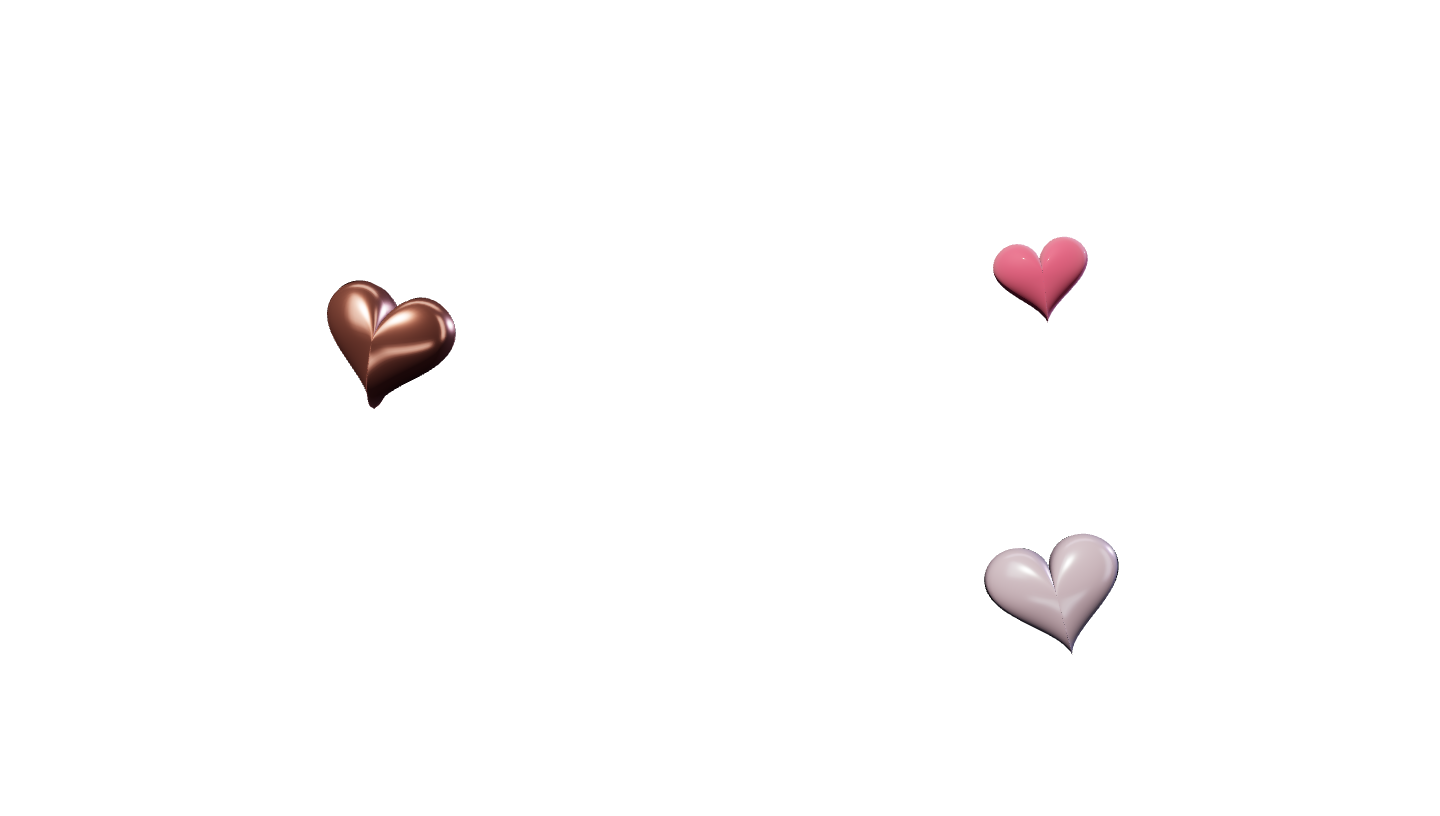
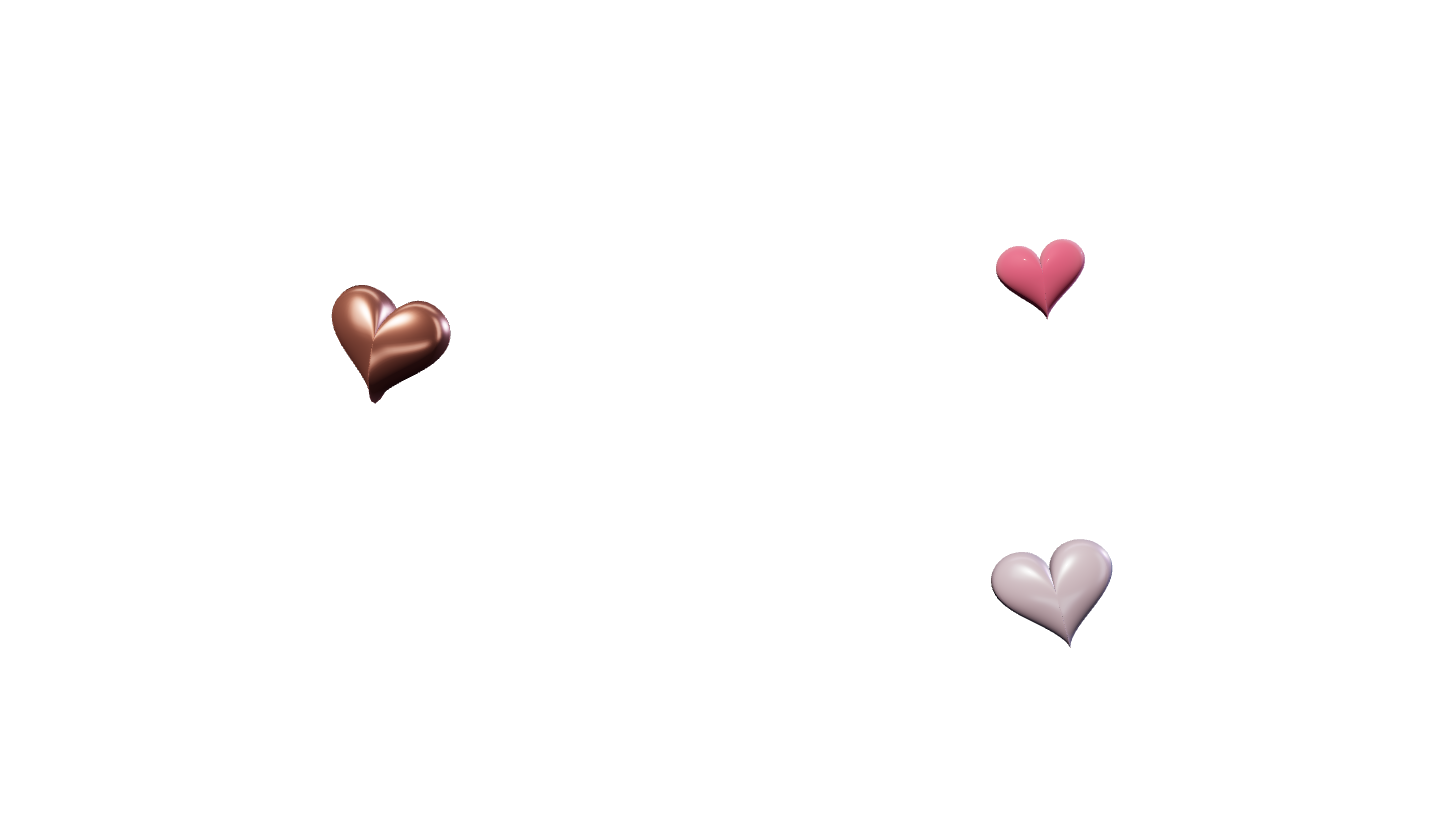
Refine envelope paper and make heart feedback clearer

diff --git a/src/preview/preview.css b/src/preview/preview.css
@@ -59,10 +59,10 @@
 
 .rd-hero-decorations{display:none}
 @media(min-width:1024px) and (pointer:fine){.rd-hero-decorations{display:block;position:absolute;inset:0;z-index:1;pointer-events:none;overflow:hidden}.rd-star{position:absolute;background:linear-gradient(135deg,#fff2df,#d8aacd);clip-path:polygon(50% 0,61% 39%,100% 50%,61% 61%,50% 100%,39% 61%,0 50%,39% 39%)}.rd-star-twinkle{animation:rd-twinkle 8s ease-in-out infinite}.rd-tiny-heart{position:absolute;display:block;height:auto;opacity:.8}.rd-spark-star{width:12px;height:12px}.rd-spark-heart{position:absolute;width:19px;height:19px;background-size:contain;background-repeat:no-repeat}.rd-game-start{min-width:190px;text-align:left}.rd-nav nav>a{min-height:44px;display:inline-flex;align-items:center}.rd-still .rd-star{animation:none}}
-@keyframes rd-twinkle{0%,100%{opacity:.25}50%{opacity:.8}}
+@keyframes rd-twinkle{0%,100%{opacity:.42}50%{opacity:.95}}
 @media(prefers-reduced-motion:reduce){.rd-star{animation:none!important}}
 
-.rd-cosmic-veil{position:absolute;inset:0;width:100%;height:100%;opacity:.32}.rd-meteor{position:absolute;width:90px;height:2px;background:linear-gradient(90deg,#fff0da,transparent);opacity:0;transform-origin:0 50%;border-radius:50%}.rd-gallery-fallback{display:block;width:100%;height:100%;object-fit:contain}
+.rd-cosmic-veil{position:absolute;inset:0;width:100%;height:100%;opacity:.55}.rd-meteor{position:absolute;width:90px;height:2px;background:linear-gradient(90deg,#fff0da,transparent);opacity:0;transform-origin:0 50%;border-radius:50%}.rd-gallery-fallback{display:block;width:100%;height:100%;object-fit:contain}
 
 .rd-hero[data-decor-visible="false"] .rd-star-twinkle{animation-play-state:paused}
 .rd-decor-far,.rd-decor-near{position:absolute;inset:0;pointer-events:none}.rd-journey{position:relative}.rd-journey-thread{display:none}
@@ -71,3 +71,13 @@
 @media(min-width:1024px) and (pointer:fine){.rd-hero-stage{z-index:auto}.rd-heart-fallback,.rd-raster-curve,.rd-raster-heart{z-index:1}.rd-raster-heart:nth-child(3){z-index:3}.rd-studio-hearts canvas{z-index:3}.rd-couple{z-index:2}.rd-envelope-object{z-index:2}.rd-rose-gift{display:contents}.rd-rose-gift img{position:absolute;right:var(--rose-right,4%);bottom:26px;width:190px;height:auto;transform-origin:50% 25%}.rd-rose-gift .rd-rose-stem{z-index:1;clip-path:inset(52% 0 0)}.rd-rose-gift .rd-rose-bloom{z-index:8;clip-path:inset(0 0 48%)}.rd-rose-gift figcaption{position:absolute;right:var(--rose-right,4%);bottom:4px;width:190px;margin:0;z-index:8}.rd-paper{clip-path:polygon(0% 4%,12.5% 2.3%,25% 1%,37.5% .25%,50% 0%,62.5% .25%,75% 1%,87.5% 2.3%,100% 4%,100% 96%,87.5% 97.7%,75% 99%,62.5% 99.75%,50% 100%,37.5% 99.75%,25% 99%,12.5% 97.7%,0% 96%);transition:transform 1.1s cubic-bezier(.3,.6,.18,1),clip-path .9s cubic-bezier(.23,1,.32,1)}.is-open .rd-paper{clip-path:polygon(0% 0%,12.5% 0%,25% 0%,37.5% 0%,50% 0%,62.5% 0%,75% 0%,87.5% 0%,100% 0%,100% 100%,87.5% 100%,75% 100%,62.5% 100%,50% 100%,37.5% 100%,25% 100%,12.5% 100%,0% 100%)}}
 @media(min-width:1024px) and (max-width:1100px) and (pointer:fine){.rd-rose-gift img,.rd-rose-gift figcaption{width:155px}}
 .rd-raster-scene{z-index:1}.rd-raster-front{z-index:3!important;opacity:0;transition:opacity .35s}.rd-raster-front[data-ready=true]{opacity:1}
+.rd-envelope-back{border-color:#b38b72;background:linear-gradient(145deg,#9b725b,#654a4c 46%,#352630);box-shadow:0 3px 0 #8e6754,0 5px 0 #39272d,14px 22px 28px #0007,inset 0 1px 1px #ffe0bc88}
+.rd-envelope-pocket{border:1px solid #b18a7199;box-shadow:inset 0 -2px 0 #c69d7b55;filter:drop-shadow(0 -2px 3px #190d1555)}
+.rd-pocket-left{background-image:url('/images/landing-preview/envelope-paper-grain.svg'),linear-gradient(136deg,#bd997c,#986f5e 52%,#765455);background-size:128px 128px,100% 100%}
+.rd-pocket-right{background-image:url('/images/landing-preview/envelope-paper-grain.svg'),linear-gradient(225deg,#ab836c,#886353 50%,#5c424b);background-size:128px 128px,100% 100%}
+.rd-pocket-bottom{background-image:url('/images/landing-preview/envelope-paper-grain.svg'),linear-gradient(172deg,#b38b70,#886052 42%,#674851 78%,#4e3644);background-size:128px 128px,100% 100%;border-bottom:2px solid #c49b7e88}
+.rd-flap-front{background-image:url('/images/landing-preview/envelope-paper-grain.svg'),linear-gradient(155deg,#c09b7b,#9a7059 38%,#795253 70%,#513749);background-size:128px 128px,100% 100%}
+.rd-flap-back{background-image:url('/images/landing-preview/envelope-paper-grain.svg'),linear-gradient(145deg,#94694e,#634949 64%,#382936);background-size:128px 128px,100% 100%}
+.rd-envelope-seams{position:absolute;inset:0;width:100%;height:100%;opacity:.6;pointer-events:none}
+.rd-paper{box-shadow:0 2px 0 #b9937080,1px 4px 0 #80614a44,8px -4px 24px #0006,inset 0 0 25px #7b573611}
+.rd-envelope-engraving{text-shadow:0 1px 0 #27182188}

diff --git a/src/preview/LandingPreview.tsx b/src/preview/LandingPreview.tsx
@@ -46,12 +46,12 @@ export function LandingPreview({connected=false}:{connected?:boolean}){
    <p className="rd-preview-note">{connected?<Link className="rd-game-start rd-main-action" href={`/play?game=${selected}`}>{copy.start}<span>↗</span></Link>:copy.previewNote}</p>
   </section>
   </div><section className={`rd-letter-section ${open?'is-open':''}`} id="gift-letter" aria-labelledby="gift-letter-heading" onKeyDown={e=>{if(e.key==='Escape'&&open){e.preventDefault();closeLetter();}}}>
-   <header><span className="rd-kicker">03 / SEALED WITH LOVE</span><h2 id="gift-letter-heading">{copy.letterTitle}</h2><p>{language==='ko'?'실링을 눌러, baby. 이 편지는 너한테만.':'Toca el sello, baby. Esta carta es solo para ti.'}</p></header>
+   <header><span className="rd-kicker">03 / SEALED WITH LOVE</span><h2 id="gift-letter-heading">{copy.letterTitle}</h2><p>{open?(language==='ko'?'천천히 읽어줘, baby. 너에게 쓴 편지야.':'Lee con calma, baby. La escribí para ti.'):(language==='ko'?'실링을 눌러, baby. 이 편지는 너한테만.':'Toca el sello, baby. Esta carta es solo para ti.')}</p></header>
    <div ref={stage} className="rd-envelope-stage"><div ref={object} className="rd-envelope-object">
     <div className="rd-envelope-back"/>
     <div className="rd-letter-track"><article ref={paper} id="gift-paper" className="rd-paper" aria-hidden={!open} inert={!open}><span className="rd-paper-top">YEONSEOK → LISBETH <i>♡</i></span><p className="rd-paper-address">{copy.address}</p><h3>{copy.letterTitle}</h3><div ref={letterText} className="rd-letter-text" tabIndex={open?0:-1}>{copy.letterBody.map(p=><p key={p}>{p}</p>)}</div>{scrollLetter&&<span className="rd-paper-scroll-note">{language==='ko'?'편지를 내려서 계속 읽어줘 ↓':'Desliza la carta para seguir leyendo ↓'}</span>}<span className="rd-paper-signature">{copy.signature} ♡</span></article></div>
     <div className="rd-envelope-flap"><div className="rd-flap-front"/><div className="rd-flap-back"/></div>
-    <div className="rd-envelope-pocket"><div className="rd-pocket-left"/><div className="rd-pocket-right"/><div className="rd-pocket-bottom"/><span className="rd-envelope-engraving">FOR MY BABY / LISBETH</span></div>
+    <div className="rd-envelope-pocket"><div className="rd-pocket-left"/><div className="rd-pocket-right"/><div className="rd-pocket-bottom"/><svg className="rd-envelope-seams" viewBox="0 0 100 100" preserveAspectRatio="none" aria-hidden="true" focusable="false"><path d="M0 0 43.5 45.8 M100 0 56.5 45.8 M0 98 50 38 100 98" fill="none" stroke="#271a22" strokeWidth="1.5" vectorEffect="non-scaling-stroke"/><path d="M0 99 50 39 100 99" fill="none" stroke="#edcdb0" strokeWidth=".7" vectorEffect="non-scaling-stroke"/></svg><span className="rd-envelope-engraving">FOR MY BABY / LISBETH</span></div>
     <button ref={envelope} className="rd-seal" aria-label={copy.secondary} aria-expanded={open} aria-controls="gift-paper" disabled={open} onClick={openLetter}><span>Y <i>♡</i> L</span><small>{language==='ko'?'너에게':'PARA TI'}</small></button>
    </div><figure className="rd-rose-gift"><img className="rd-rose-stem" src="/images/landing-preview/organic-rose-generated.png" width="1024" height="1536" loading="lazy" decoding="async" alt="" aria-hidden="true"/><img className="rd-rose-bloom" src="/images/landing-preview/organic-rose-generated.png" width="1024" height="1536" loading="lazy" decoding="async" alt={copy.rose}/><figcaption>{language==='ko'?'먼저 여기서, baby.':'Primero aquí, baby.'}</figcaption></figure></div>
    <div className="rd-letter-controls"><button ref={close} hidden={!open} className="rd-letter-close rd-line-action" onClick={closeLetter}>{copy.close}<span>×</span></button></div>

diff --git a/src/preview/heroMotion.ts b/src/preview/heroMotion.ts
@@ -10,8 +10,8 @@ export function attachHeroMotion(hero:HTMLElement,paused:boolean,readImpulse=()=
   light.style.transform=`translate3d(${x*2+ambient}px,${y}px,0) rotate(-12deg)`;fill.style.transform=`translate3d(${-x}px,${-y*.6}px,0)`;
   shadow.style.transform=`translate3d(${-x*2}px,${-y}px,0)`;floor.style.transform=`translate3d(${-x+ambient*.4}px,${y*.5}px,0)`;light.style.opacity=String(.85+depth*.05);
   floor.style.opacity=String(.65+Math.abs(x)*.03);hero.dataset.sceneMotion=JSON.stringify({x,y,depth,scale,retreat,portrait:[x*4,y*2],light:[x*2+ambient,y],title:[0,0]});
-  if(!Number.isFinite(decorX)||Math.abs(x-decorX)+Math.abs(y-decorY)>.01){decorX=x;decorY=y;far.forEach(node=>node.style.transform=`translate3d(${-x*2}px,${-y}px,0)`);near.forEach(node=>node.style.transform=`translate3d(${x*10}px,${y*6}px,0)`);const glow=x<-.35?'.29':x>.35?'.35':'.32';if(veil&&veil.style.opacity!==glow)veil.style.opacity=glow;}
-  if(raster){hearts.forEach((heart,i)=>{const dx=paused?0:x*[8,2,10][i]*(i%2?1:-1)*unit+heart.pushX,dy=paused?0:(y*[5,1,6][i]+Math.sin(elapsed*[.31,.19,.43][i]+i)*2)*unit+heart.pushY,pose=paused?0:x*.2+heart.hover*(i%2?.7:-.7);heart.node.style.transform=`translate3d(${dx}px,${dy}px,0) rotateZ(${paused?0:Math.sin(elapsed*[.29,.17,.41][i]+i)*1.3}deg) scale(${1+energy*.025})`;heart.left.style.opacity=String(Math.max(0,-pose));heart.right.style.opacity=String(Math.max(0,pose));});if(curve&&curveMask){curve.style.transform=`translate3d(${x*2*unit}px,${y*unit}px,0)`;const reveal=paused?1:1-Math.pow(1-Math.min(1,Math.max(0,curveTime-.35)/1.1),3);curveMask.style.clipPath=reveal===1?'none':`inset(0 ${(1-reveal)*100}% 0 0)`;raster.dataset.curveReveal=String(reveal);}raster.dataset.hovered=String(hovered);raster.dataset.motion=paused?'paused':'running';raster.dataset.heartTransforms=JSON.stringify(hearts.map(h=>h.node.style.transform));raster.dataset.repulsions=JSON.stringify(hearts.map(h=>[h.pushX,h.pushY]));}
+  if(!Number.isFinite(decorX)||Math.abs(x-decorX)+Math.abs(y-decorY)>.01){decorX=x;decorY=y;far.forEach(node=>node.style.transform=`translate3d(${-x*2}px,${-y}px,0)`);near.forEach(node=>node.style.transform=`translate3d(${x*10}px,${y*6}px,0)`);const glow=x<-.35?'.52':x>.35?'.58':'.55';if(veil&&veil.style.opacity!==glow)veil.style.opacity=glow;}
+  if(raster){hearts.forEach((heart,i)=>{const dx=paused?0:x*[8,2,10][i]*(i%2?1:-1)*unit+heart.pushX,dy=paused?0:(y*[5,1,6][i]+Math.sin(elapsed*[.31,.19,.43][i]+i)*2)*unit+heart.pushY,pose=paused?0:Math.max(-1,Math.min(1,x*.7+heart.hover*(i%2?.3:-.3)));heart.node.style.transform=`translate3d(${dx}px,${dy}px,0) rotateZ(${paused?0:Math.sin(elapsed*[.29,.17,.41][i]+i)*1.3}deg) scale(${1+energy*.025})`;heart.left.style.opacity=String(Math.max(0,-pose));heart.right.style.opacity=String(Math.max(0,pose));});if(curve&&curveMask){curve.style.transform=`translate3d(${x*2*unit}px,${y*unit}px,0)`;const reveal=paused?1:1-Math.pow(1-Math.min(1,Math.max(0,curveTime-.35)/1.1),3);curveMask.style.clipPath=reveal===1?'none':`inset(0 ${(1-reveal)*100}% 0 0)`;raster.dataset.curveReveal=String(reveal);}raster.dataset.hovered=String(hovered);raster.dataset.motion=paused?'paused':'running';raster.dataset.heartTransforms=JSON.stringify(hearts.map(h=>h.node.style.transform));raster.dataset.repulsions=JSON.stringify(hearts.map(h=>[h.pushX,h.pushY]));}
  };
  const tick=(now:number)=>{const dt=last?Math.min(.25,(now-last)/1000):0;last=now;if(visible&&!document.hidden){elapsed+=dt;const steps=Math.max(1,Math.ceil(dt*120)),h=dt/steps;
    // The same mass 1 / stiffness 100 / damping 10 spring retargets every scene layer.

diff --git a/src/preview/StudioScene.tsx b/src/preview/StudioScene.tsx
@@ -7,7 +7,7 @@ import {gameCatalog} from '../games/catalog';
 
 type Props={mode:'hearts'|'games';selected?:string;paused:boolean;impulse?:number;onSelect?:(id:string)=>void;onUnavailable?:()=>void};
 const heartLayout=[[1.2,.25,1.1,1.82,-.25],[3.55,-1.55,.2,1.2,.3],[3.45,2.18,-1.8,1.12,.35],[-.1,2.3,-1,.68,-.5],[5.1,.55,-1,.7,.1],[.15,-2.4,-1.8,.67,.3]];
-const heroLayout=[[-3.15,.65,.55,.65,-.25],[3.5,1.45,-1.1,.5,.16],[3.15,-1.7,.65,.62,.28]];
+const heroLayout=[[-3.15,.65,.55,.60,-.25],[3.5,1.45,-1.1,.47,.16],[3.15,-1.7,.65,.56,.28]];
 export default function StudioScene(props:Props){
  const host=useRef<HTMLDivElement>(null),controls=useRef(props),redraw=useRef<()=>void>(()=>{}),[ready,setReady]=useState(false),[failed,setFailed]=useState(false),[mounted,setMounted]=useState(props.mode==='hearts');
  controls.current=props;
@@ -59,7 +59,7 @@ export default function StudioScene(props:Props){
     let x=0,y=0,z=0,size=1,rx=.13,ry=-.2,rz=0;
     if(props.mode==='hearts'){
      g.visible=mobile||i<heroLayout.length;if(!g.visible)return;const base=mobile?heartLayout[i]:heroLayout[i];[x,y,z,size,rz]=base;const heart=g.children[0] as T.Mesh;heart.material=mobile?(i===1||i===3?materials.gold:materials.chrome):heroMaterials[i];if(mobile){x=(x-2.15)*.65;y*=.9;size*=1.05;}else{const entry=controls.current.paused?1:1-Math.pow(1-Math.min(1,time/.9),3);ry-=(1-entry)*.18;y-=(1-entry)*.14;size*=.95+.05*entry;}
-     if(active){if(mobile){y+=Math.sin(time*.6+i)*.13;ry+=Math.sin(time*.35+i)*.19;}else{rx+=Math.sin(time*[.23,.37,.19][i]+i)*.065;ry+=Math.sin(time*[.37,.23,.29][i]+i)*.14;rz+=Math.sin(time*[.29,.17,.41][i]+i)*.025;y+=Math.sin(time*[.31,.19,.43][i]+i)*.025;}}
+     if(active){if(mobile){y+=Math.sin(time*.6+i)*.13;ry+=Math.sin(time*.35+i)*.19;}else{rx+=Math.sin(time*[.23,.37,.19][i]+i)*.065+pointer.y*[.05,.035,-.075][i];ry+=Math.sin(time*[.37,.23,.29][i]+i)*.14+pointer.x*[.14,-.10,.2][i];rz+=Math.sin(time*[.29,.17,.41][i]+i)*.025;y+=Math.sin(time*[.31,.19,.43][i]+i)*.025;}}
      if(!mobile){const unit=2*Math.tan(T.MathUtils.degToRad(camera.fov/2))*(camera.position.z-z)/height;repulsions[i].lerp(controls.current.paused?new T.Vector2():repulseTargets[i],snap||!active?1:1-Math.exp(-dt*8));x+=(pointer.x*[8,2,10][i]*(i%2?1:-1)+repulsions[i].x)*unit;y+=(pointer.y*[5,1,6][i]+repulsions[i].y)*unit;}else{x+=pointer.x*.13*(i%2?1:-1);y+=pointer.y*.1;}size*=1+energy*.025;
     }else{
      const chosen=gameCatalog[i].id===controls.current.selected;

diff --git a/src/preview/HeroDecorations.tsx b/src/preview/HeroDecorations.tsx
@@ -3,7 +3,7 @@ const stars=[[8,13,10],[17,29,5],[28,21,12],[11,57,6],[24,62,8],[7,76,4],[19,45,
 const hearts=[[14,37,32,0,-18],[24,14,25,2,16],[87,13,30,1,20],[91,56,34,2,-14]];
 export function HeroDecorations(){return <div className="rd-hero-decorations" aria-hidden="true">
  <img className="rd-cosmic-veil" src="/images/landing-preview/hero/nebula-fringe.png" width="1440" height="816" alt=""/>
- <div className="rd-decor-far">{stars.map(([x,y,size],i)=><span key={i} className={`rd-star ${i%4===0?'rd-star-twinkle':''}`} style={{left:`${x}%`,top:`${y}%`,width:size,height:size,opacity:i%3===0?.8:.42,animationDelay:`${i*.7}s`}}/>)}</div>
+ <div className="rd-decor-far">{stars.map(([x,y,size],i)=><span key={i} className={`rd-star ${i%4===0?'rd-star-twinkle':''}`} style={{left:`${x}%`,top:`${y}%`,width:size+1,height:size+1,opacity:i%3===0?.9:.56,animationDelay:`${i*.7}s`}}/>)}</div>
  <div className="rd-decor-near">{hearts.map(([x,y,size,color,angle],i)=><img key={i} className="rd-tiny-heart" src={`/images/landing-preview/hero/heart-${color}-neutral.png`} width={size} height={size} alt="" style={{left:`${x}%`,top:`${y}%`,width:size,rotate:`${angle}deg`} as CSSProperties}/>)}</div>
  <span className="rd-meteor"/>
  <div className="rd-hero-sparks" data-particle-count="0"/>

diff --git a/src/preview/heroMaterials.ts b/src/preview/heroMaterials.ts
@@ -2,8 +2,8 @@ import * as T from 'three';
 
 export function createHeroMaterials(){
  return [
-  new T.MeshPhysicalMaterial({color:'#efad9c',metalness:.85,roughness:.23,clearcoat:.8,envMapIntensity:1.3,emissive:'#612438',emissiveIntensity:.06}),
+  new T.MeshPhysicalMaterial({color:'#efad9c',metalness:.8,roughness:.28,clearcoat:.65,envMapIntensity:1.3,emissive:'#612438',emissiveIntensity:.06}),
   new T.MeshPhysicalMaterial({color:'#d55280',metalness:.08,roughness:.62,clearcoat:.05,sheen:.65,sheenColor:'#efc2d5',sheenRoughness:.75,envMapIntensity:1,emissive:'#541122',emissiveIntensity:.05}),
-  new T.MeshPhysicalMaterial({color:'#e7d9f2',metalness:.28,roughness:.22,clearcoat:1,envMapIntensity:1.3,iridescence:1,iridescenceIOR:1.3,iridescenceThicknessRange:[100,400]}),
+  new T.MeshPhysicalMaterial({color:'#e7d9f2',metalness:.28,roughness:.3,clearcoat:.65,envMapIntensity:1.3,iridescence:1,iridescenceIOR:1.3,iridescenceThicknessRange:[100,400]}),
  ];
 }
